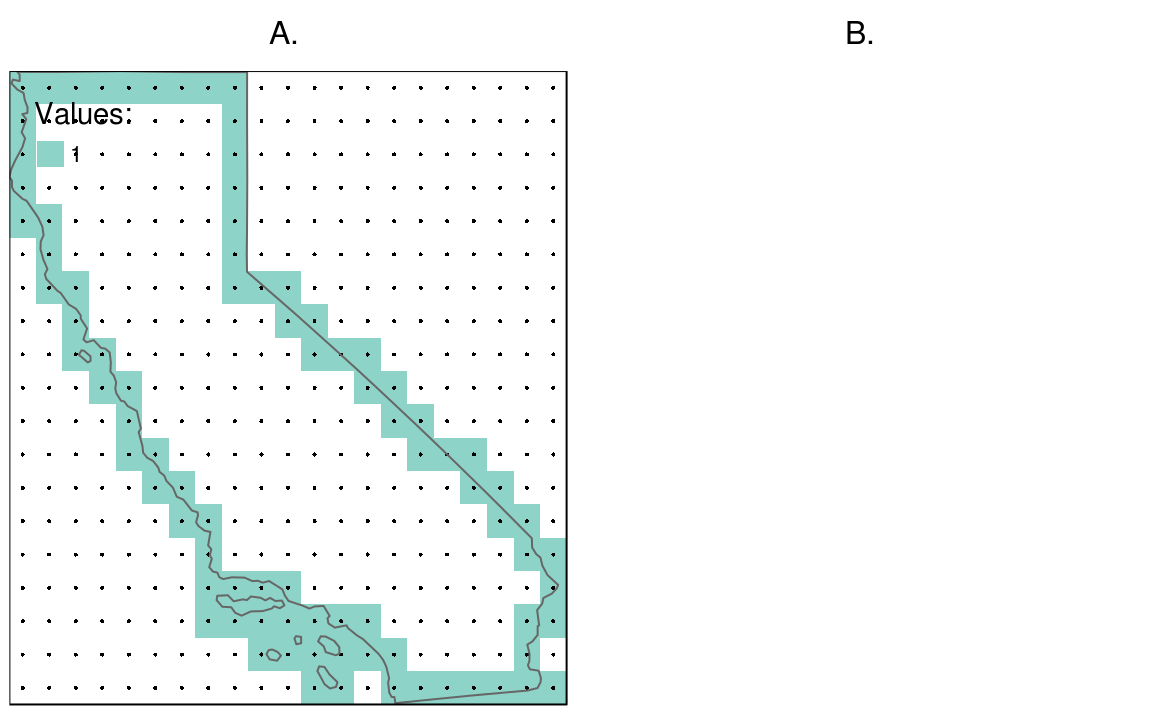
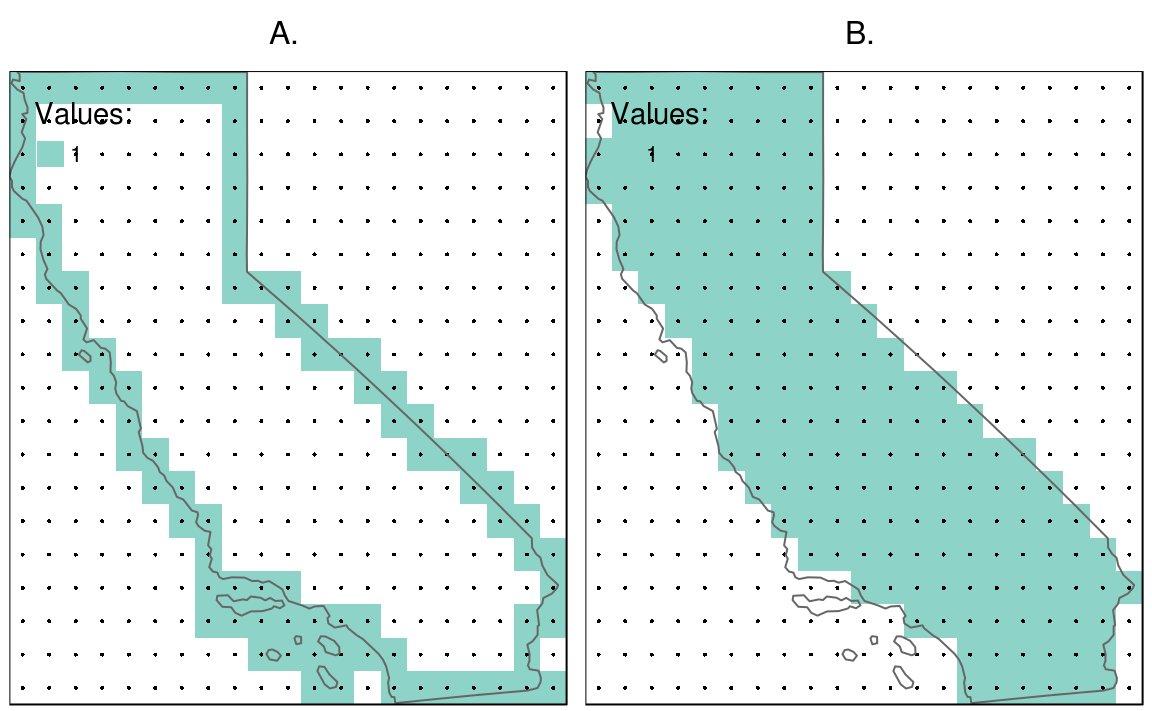
Updating book (2190)

diff --git a/transform.html b/transform.html
@@ -862,6 +862,15 @@ raster_template2 =<span class="st"> </span><span class="kw">raster</span>(<span 
 <div class="sourceCode"><pre class="sourceCode r"><code class="sourceCode r">california_raster2 =<span class="st"> </span><span class="kw">rasterize</span>(california, raster_template2)</code></pre></div>
 <!-- getCover? -->
 <!-- the fraction of each grid cell that is covered by the polygons-->
+<!-- ```{r, echo=FALSE, eval=FALSE} -->
+<!-- california_raster3 = rasterize(california, raster_template2, getCover = TRUE) -->
+<!-- r3po = tm_shape(california_raster3) + -->
+<!--   tm_raster(legend.show = TRUE, title = "Values: ", style = "fixed", breaks = c(0, 1, 25, 50, 75, 100)) + -->
+<!--   tm_shape(california) + -->
+<!--   tm_borders() + -->
+<!--   tm_layout(outer.margins = rep(0.01, 4), -->
+<!--             inner.margins = rep(0, 4)) -->
+<!-- ``` -->
 <p>It is also possible to use the <code>field</code> or <code>fun</code> arguments for lines and polygons rasterizations.</p>
 <div class="figure" style="text-align: center"><span id="fig:vector-rasterization2"></span>
 <img src="figures/vector-rasterization2-1.png" alt="Examples of polygon rasterization" width="576" />

diff --git a/main.md b/main.md
@@ -256,7 +256,7 @@ leaflet() %>%
 ```
 
 <div class="figure" style="text-align: center">
-preserve9a8758d5074ac7fe
+preserve1394b256b3b6e83d
 <p class="caption">(\#fig:interactive)World at night imagery from NASA overlaid by the authors' approximate home locations to illustrate interactive mapping with R.</p>
 </div>
 
@@ -3129,7 +3129,7 @@ any(st_touches(cycle_hire, cycle_hire_osm, sparse = FALSE))
 
 
 <div class="figure" style="text-align: center">
-preserve81151e51df1dc7ef
+preserve42c4593e232347fe
 <p class="caption">(\#fig:cycle-hire)The spatial distribution of cycle hire points in London based on official data (blue) and OpenStreetMap data (red).</p>
 </div>
 
@@ -4732,8 +4732,15 @@ california_raster2 = rasterize(california, raster_template2)
 
 <!-- getCover? -->
 <!-- the fraction of each grid cell that is covered by the polygons-->
-
-
+<!-- ```{r, echo=FALSE, eval=FALSE} -->
+<!-- california_raster3 = rasterize(california, raster_template2, getCover = TRUE) -->
+<!-- r3po = tm_shape(california_raster3) + -->
+<!--   tm_raster(legend.show = TRUE, title = "Values: ", style = "fixed", breaks = c(0, 1, 25, 50, 75, 100)) + -->
+<!--   tm_shape(california) + -->
+<!--   tm_borders() + -->
+<!--   tm_layout(outer.margins = rep(0.01, 4), -->
+<!--             inner.margins = rep(0, 4)) -->
+<!-- ``` -->
 
 It is also possible to use the `field` or `fun` arguments for lines and polygons rasterizations.
 
@@ -6127,7 +6134,7 @@ result = sum(reclass)
 For instance, a score greater 9 might be a suitable threshold indicating raster cells where to place a bike shop (Figure \@ref(fig:bikeshop-berlin)).
 
 <div class="figure" style="text-align: center">
-preservefb23d8c30c2aabc2
+preserve4011b8a80e0509b7
 <p class="caption">(\#fig:bikeshop-berlin)Suitable areas (i.e., raster cells with a score > 9) in accordance with our hypothetical survey for bike stores in Berlin.</p>
 </div>
 
@@ -6750,7 +6757,7 @@ route_cycleway$all = c(desire_rail$all, desire_carshort$all)
 ```
 
 <div class="figure" style="text-align: center">
-preservedf5e31e8275ab5db
+preserve4674c466de4a2c65
 <p class="caption">(\#fig:cycleways)Potential routes along which to prioritise cycle infrastructure in Bristol, based on access key rail stations (red dots) and routes with many short car journeys (north of Bristol surrounding Stoke Bradley. Line thickness is proportional to number of trips.</p>
 </div>
 
